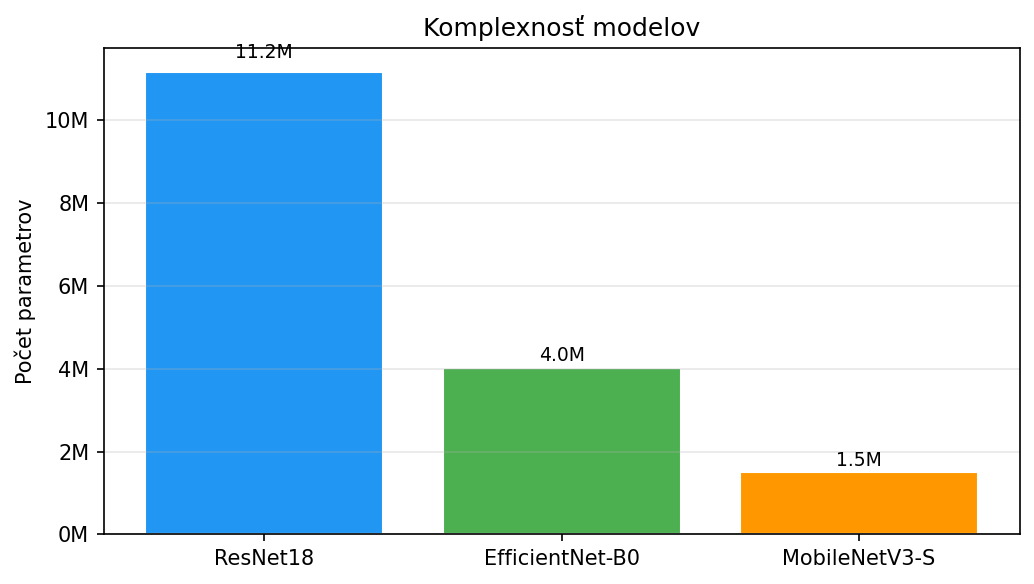
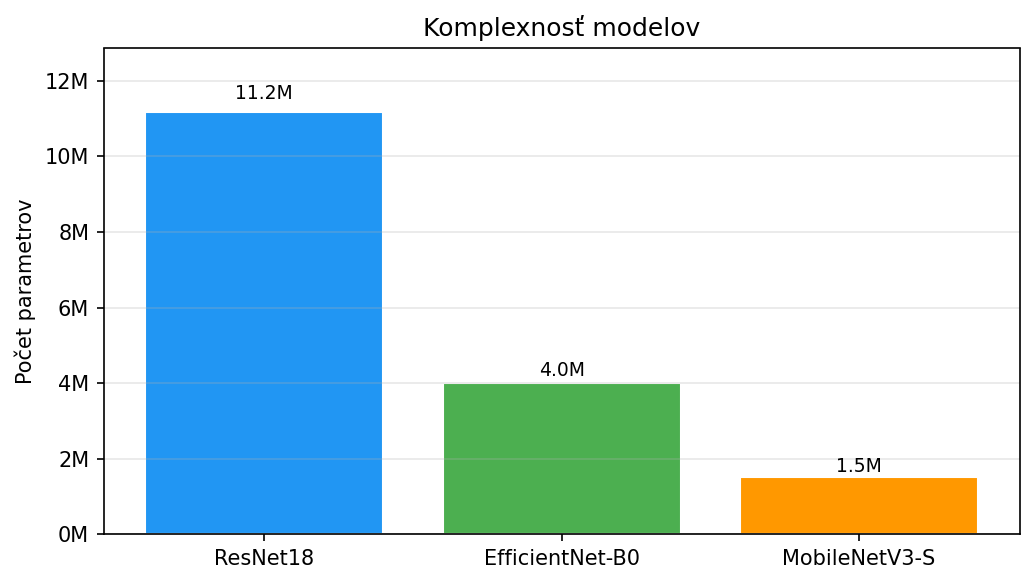
fixed plot graphing

diff --git a/plot.py b/plot.py
@@ -168,7 +168,7 @@ def plot_training_time(results, size=224):
         ax.tick_params(axis='x', labelrotation=45)
         ax.set_xticklabels(labels, rotation=45, ha='right')
         ax.grid(True, axis='y', alpha=0.3)
-        ax.set_ylim(bottom=0)
+        ax.set_ylim(bottom=0, top=max(val) * 1.15)
 
     fig.tight_layout()
     save(fig, f'training_time_{size}.png')
@@ -194,6 +194,7 @@ def plot_complexity(results):
     ax.set_ylabel('Počet parametrov')
     ax.set_title('Komplexnosť modelov')
     ax.yaxis.set_major_formatter(plt.FuncFormatter(lambda x, _: f'{x/1e6:.0f}M'))
+    ax.set_ylim(top=max(params) * 1.15)
     ax.grid(True, axis='y', alpha=0.3)
     fig.tight_layout()
     save(fig, 'model_complexity.png')
